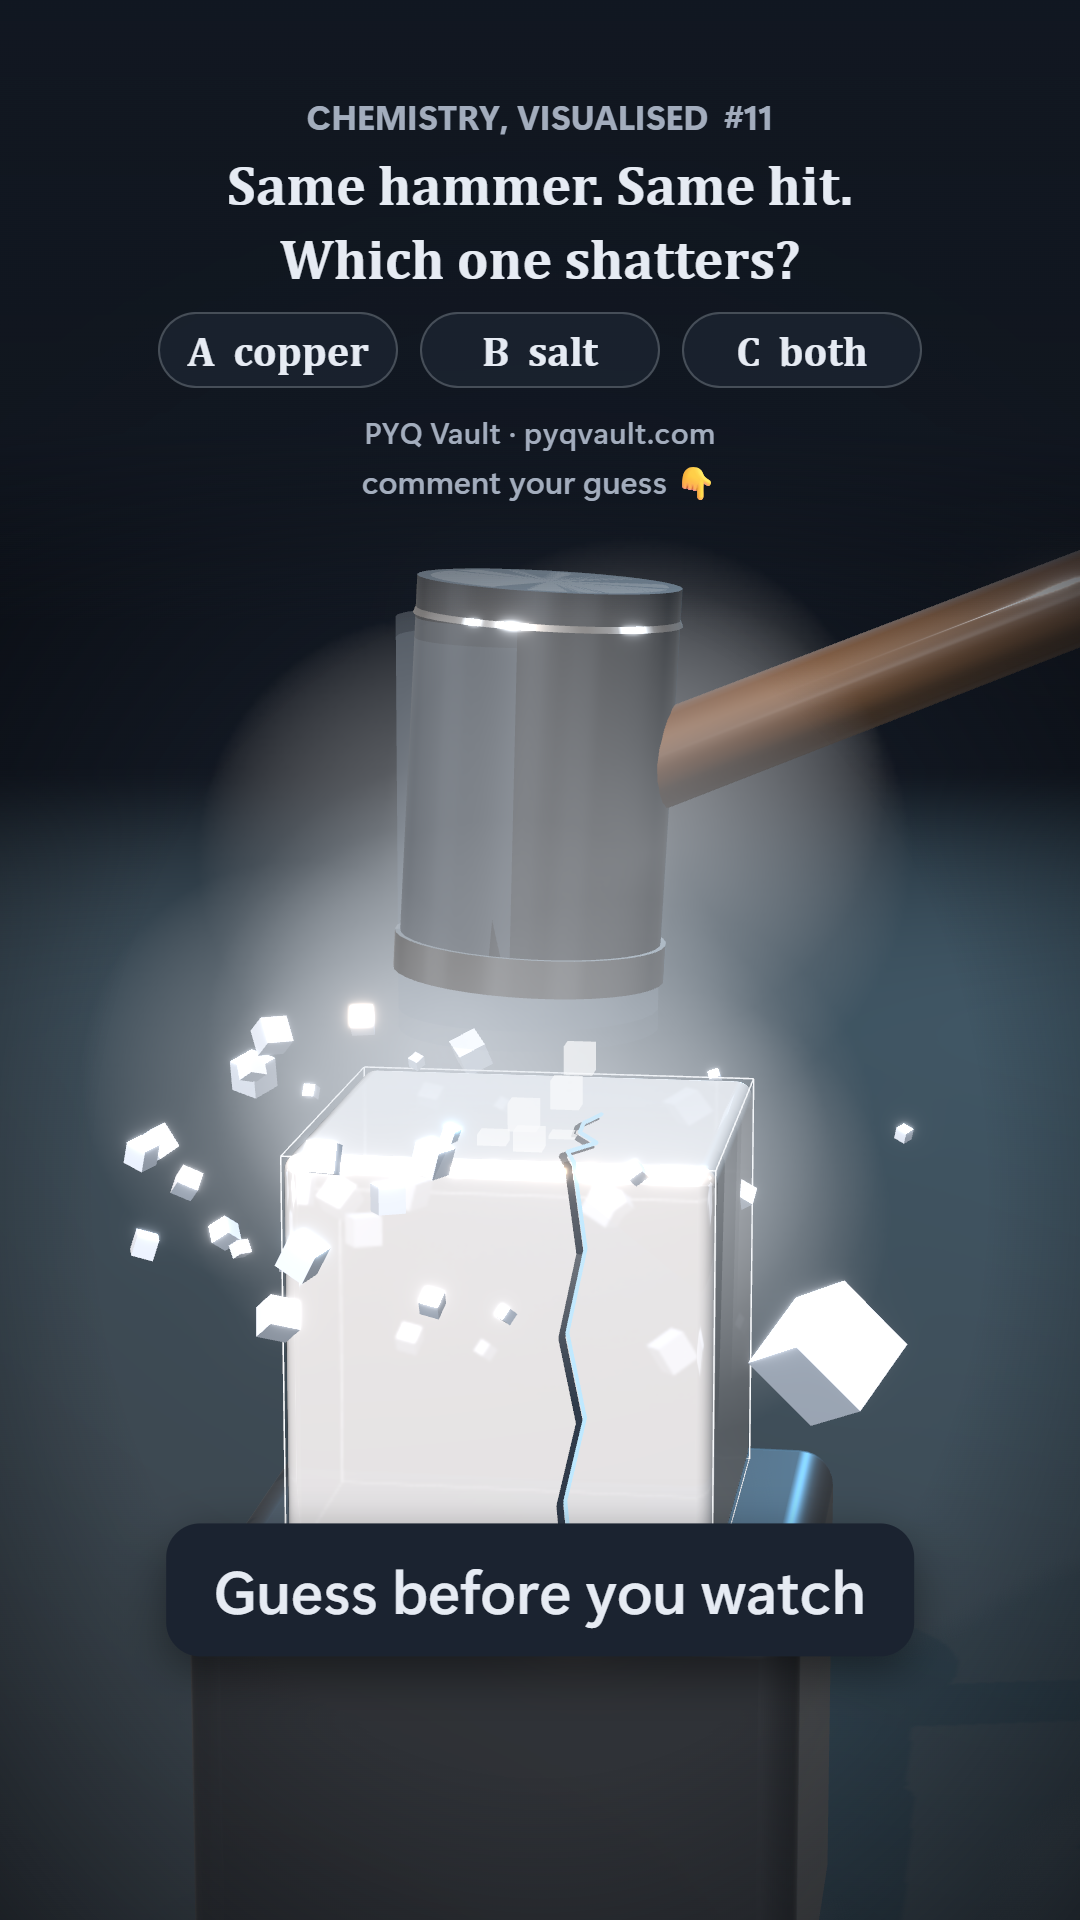
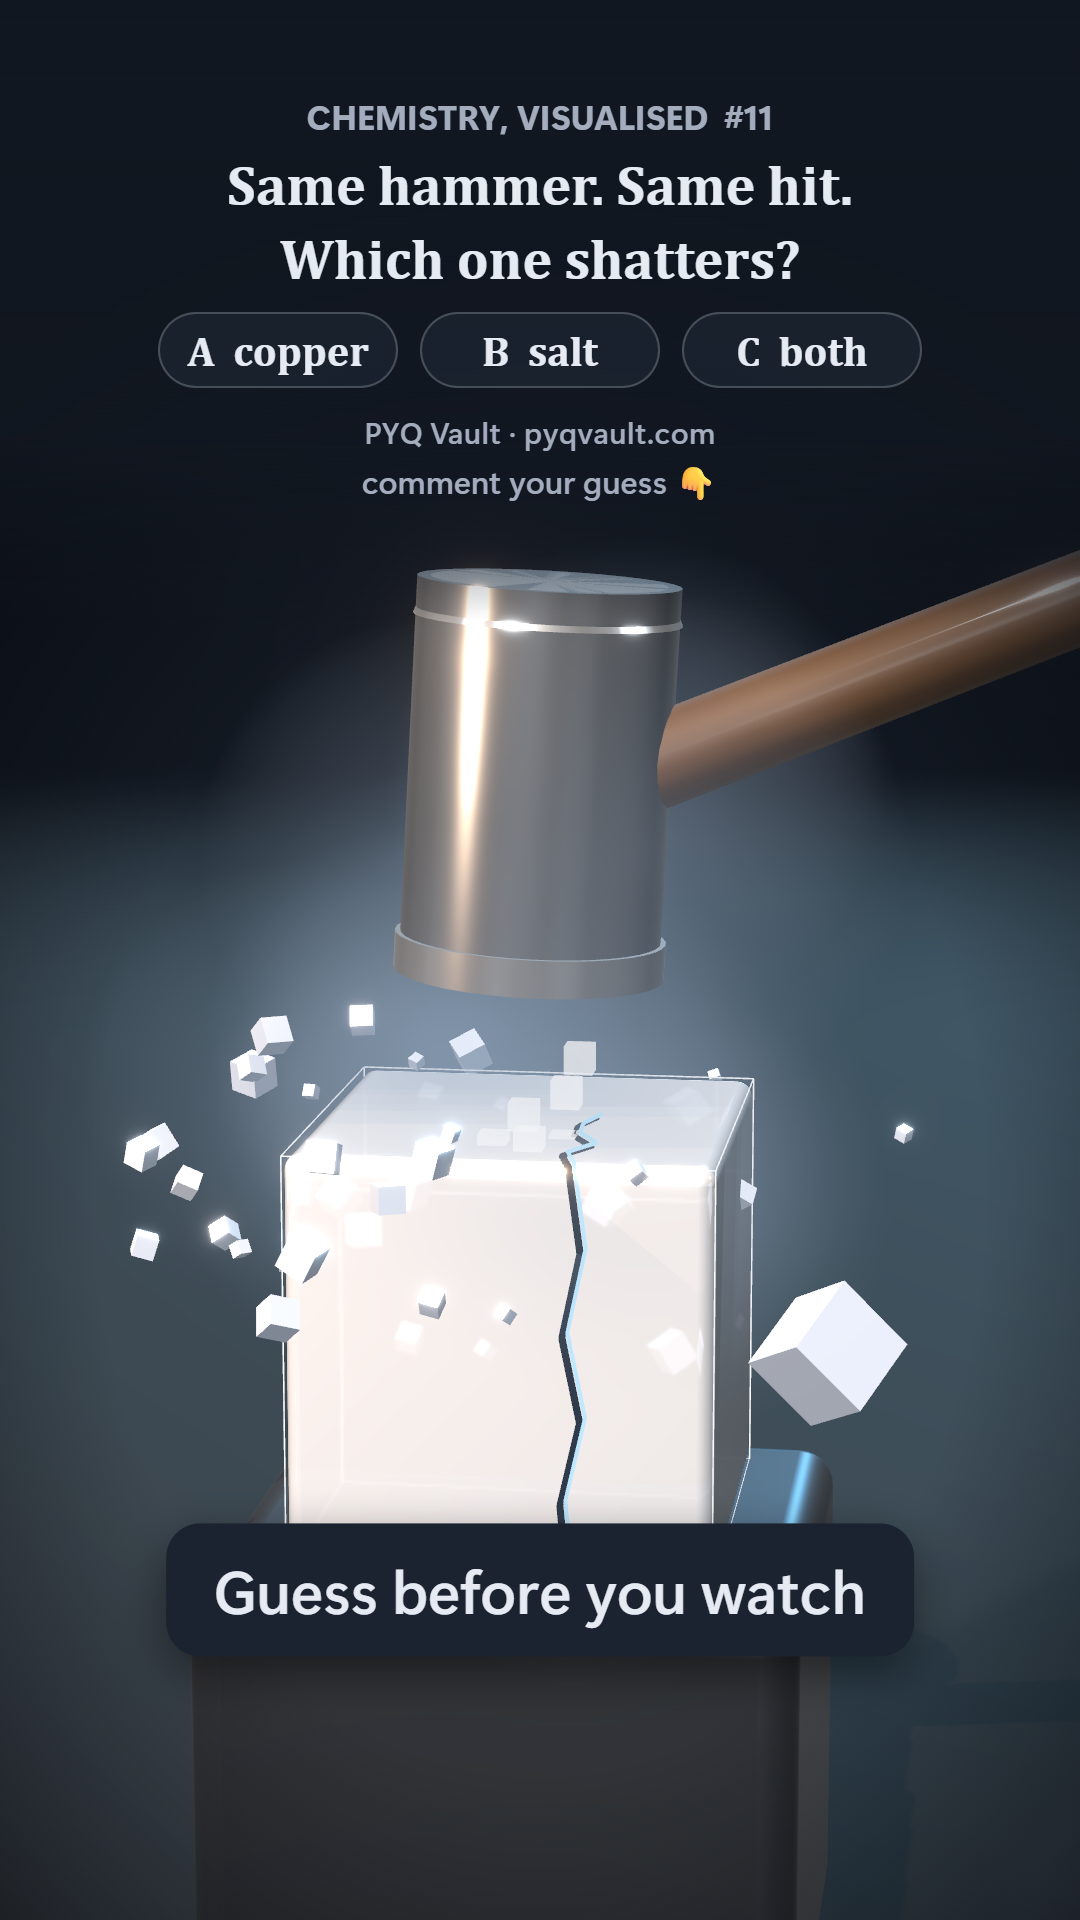
fix(reels): Chemistry #11's four defects every critic named; replaced in GoPost
Copper reads as copper, the shatter keeps its edges, no motion trail, readable closing labels.

Changed region(s): [[0.1528, 0.2812, 0.7944, 0.7812], [0.6111, 0.3125, 0.7333, 0.375], [0.5194, 0.6562, 0.55, 0.6875]]

diff --git a/remotion/src/PvChem011.tsx b/remotion/src/PvChem011.tsx
@@ -39,7 +39,7 @@ function Rig({ t }: { t: number }) {
 // thing in frame (cool white, bright edges), polished salmon copper, a dark wooden handle that doesn't pull the eye.
 const steel = <meshPhysicalMaterial color={C.steel} metalness={0.75} roughness={0.28} clearcoat={0.4} />;
 const gunmetal = <meshPhysicalMaterial color="#474e58" metalness={0.8} roughness={0.38} clearcoat={0.3} />;
-const copper = <meshPhysicalMaterial color={C.copperEdge} metalness={0.9} roughness={0.22} clearcoat={0.6} envMapIntensity={2.6} emissive={C.copper} emissiveIntensity={0.12} />;   // bright enough to read as copper on the dark set
+const copper = <meshPhysicalMaterial color={C.copperEdge} metalness={0.7} roughness={0.24} clearcoat={0.7} envMapIntensity={3} emissive="#b5602f" emissiveIntensity={0.28} />;   // salmon copper, not a brown plank (all three critics)
 const salt = <meshPhysicalMaterial color="#e4eaf2" roughness={0.1} clearcoat={1} transmission={0.25} thickness={0.4} ior={1.54} />;
 /** A colour pushed above 1 so Bloom makes it glow (toneMapped off). */
 const hot = (hex: string, k: number) => new THREE.Color(hex).multiplyScalar(k);
@@ -57,6 +57,7 @@ function DarkSet({ t }: { t: number }) {
       <fog attach="fog" args={[C.board, 9, 15]} />
       <RealLight env={0.35} key={0.5} at={[-3, 7, 6]} span={6} />
       <primitive object={spot} /><primitive object={target} />
+      <pointLight position={[BAR.x + 0.3, 1.4, 1.2]} intensity={7} distance={3.5} color="#ffd0a8" />
       <directionalLight position={[1, 4, -6]} intensity={2.8} color="#7fd4ff" />
       <hemisphereLight args={['#5b6a88', '#05070b', 0.25]} />
       <mesh rotation={[-Math.PI / 2, 0, 0]} position={[0, 0, 0]} receiveShadow><planeGeometry args={[40, 40]} /><meshStandardMaterial color={C.floor} roughness={0.85} /></mesh>
@@ -79,12 +80,12 @@ function Segment({ a, b, r, colour, opacity = 1 }: { a: V3; b: V3; r: number; co
 }
 
 /** A cube with dark edges so the clear-white salt reads on the white studio (F24: an edge of its own colour). */
-function SaltCube({ pos, rot, size }: { pos: V3; rot: V3; size: number }) {
+function SaltCube({ pos, rot, size, edge = C.saltEdge }: { pos: V3; rot: V3; size: number; edge?: string }) {
   const edges = useMemo(() => new THREE.EdgesGeometry(new THREE.BoxGeometry(size, size, size)), [size]);
   return (
     <group position={pos} rotation={rot}>
       <mesh castShadow><RoundBox size={[size, size, size]} radius={size * 0.04} />{salt}</mesh>
-      <lineSegments geometry={edges}><lineBasicMaterial color={C.saltEdge} /></lineSegments>
+      <lineSegments geometry={edges}><lineBasicMaterial color={edge} /></lineSegments>
     </group>
   );
 }
@@ -92,14 +93,11 @@ function SaltCube({ pos, rot, size }: { pos: V3; rot: V3; size: number }) {
 /** A hammer at its striking pose: a steel head (face down), a wooden handle out to the side and up. */
 function Hammer({ k, s }: { k: 'copper' | 'salt'; s: number }) {
   const h = hammerAt(k, s), side = k === 'copper' ? -1 : 1, head = { r: 0.14, h: 0.42 };
-  const trail = [1, 2, 3].map(n => hammerAt(k, s - 0.02 * n)).filter(g => Math.abs(g.face - h.face) > 0.02);
   // the handle leaves the head's side at mid-height, out and 25° up (a cylinder's axis is +y: turned by θ it points
   // (−sin θ, cos θ), so θ = −side·(90° − 25°))
   const up = 0.44, len = 1.3, dir = [side * Math.cos(up), Math.sin(up)], from = [side * head.r * 0.8, head.h * 0.55];
   return (
     <>
-    {trail.map((g, n) => <mesh key={n} position={[g.x, g.face + head.h / 2, 0]}><cylinderGeometry args={[head.r, head.r, head.h, 32]} />
-      <meshBasicMaterial color="#9aa6b4" transparent opacity={0.16 - 0.04 * n} depthWrite={false} /></mesh>)}
     <group position={[h.x, h.face, 0]} rotation={[0, 0, h.tilt]}>
       <mesh position={[0, head.h / 2, 0]} castShadow><cylinderGeometry args={[head.r, head.r, head.h, 40]} />{steel}</mesh>
       <mesh position={[0, 0.02, 0]}><cylinderGeometry args={[head.r * 1.04, head.r * 1.04, 0.04, 40]} />
@@ -142,7 +140,7 @@ const puff = (() => {
 })();
 
 function Bench({ s, t }: { s: number; t: number }) {
-  const pieces = piecesAt(s), white = <meshStandardMaterial color="#d8e7fb" roughness={0.2} />;   // cool white shards, no glow (the panel)
+  const pieces = piecesAt(s), white = <meshStandardMaterial color="#c6d5ea" roughness={0.35} />;   // cool white shards, no glow (the panel)
   return (
     <>
       <DarkSet t={t} />
@@ -157,7 +155,7 @@ function Bench({ s, t }: { s: number; t: number }) {
       <Bar s={s} />
       {s < T_BURST
         ? <SaltCube pos={[SALT.x + shiverAt(s)[0], SALT.base + SALT.side / 2, shiverAt(s)[1]]} rot={[0, 0, 0]} size={SALT.side} />
-        : pieces.map((p, i) => <SaltCube key={i} pos={p.pos} rot={p.rot} size={PIECE * 0.985} />)}
+        : pieces.map((p, i) => <SaltCube key={i} pos={p.pos} rot={p.rot} size={PIECE * 0.985} edge="#5d6b7d" />)}   // dark edges: each piece reads
       <group position={[shiverAt(s)[0], 0, shiverAt(s)[1]]}>
         {cracksAt(s).map((c, i) => c.slice(1).map((p, j) => <Segment key={`${i}-${j}`} a={[c[j][0], c[j][1], c[j][2] + 0.006]} b={[p[0], p[1], p[2] + 0.006]} r={0.004} colour="#2f3b4a" />))}
         {cracksAt(s).map((c, i) => c.slice(1).map((p, j) => <Segment key={`h${i}-${j}`} a={[c[j][0] + 0.006, c[j][1] + 0.006, c[j][2] + 0.008]} b={[p[0] + 0.006, p[1] + 0.006, p[2] + 0.008]} r={0.0022} colour="#bfe9ff" />))}
@@ -171,7 +169,7 @@ function Bench({ s, t }: { s: number; t: number }) {
       {chipsAt(s).map((p, i) => <mesh key={'c' + i} position={p.pos} rotation={p.rot} castShadow><boxGeometry args={[p.size, p.size, p.size]} />{white}</mesh>)}
       {shardsAt(s).map((p, i) => <mesh key={'s' + i} position={p.pos} rotation={p.rot} castShadow><boxGeometry args={[p.size, p.size, p.size]} />{white}</mesh>)}
       {dustCloudAt(s).map((d, i) => <sprite key={'d' + i} position={d.pos} scale={[d.r * 2.6, d.r * 2.6, 1]}>
-        <spriteMaterial map={puff} color="#e6ebf2" transparent opacity={d.alpha * 0.55} depthWrite={false} /></sprite>)}
+        <spriteMaterial map={puff} color="#9fb3cc" transparent opacity={d.alpha * 0.4} depthWrite={false} /></sprite>)}
       <Hammer k="copper" s={s} />
       <Hammer k="salt" s={s} />
     </>
@@ -248,7 +246,7 @@ function Scene({ t }: { t: number }) {
     <>
       <Rig t={t} />
       {sceneAt(t) === 'macro' ? <Bench s={storyTime(t)} t={t} /> : <Atoms t={t} />}
-      <EffectComposer multisampling={4}><Bloom mipmapBlur luminanceThreshold={1.0} luminanceSmoothing={0.2} intensity={0.8} radius={0.55} /></EffectComposer>
+      <EffectComposer multisampling={4}><Bloom mipmapBlur luminanceThreshold={1.15} luminanceSmoothing={0.2} intensity={0.8} radius={0.55} /></EffectComposer>
       <BloomWarmUp />
     </>
   );
@@ -279,8 +277,8 @@ function Words({ t }: { t: number }) {
           case 'tag': return line(x, { font: `600 30px ${SOFT_UI}`, letterSpacing: 0.5 }, P.muted);
           case 'line': return line(x, { font: `600 44px ${SOFT_UI}` });
           case 'caption': return pill(x, 'rgba(0,0,0,0)', 'rgba(10,14,20,0.72)', P.ink, { font: `600 ${x.size}px ${SOFT_UI}` });
-          case 'setTag': return pill(x, tint(P.ink, 0.35), 'rgba(27,35,48,0.9)', P.ink, { font: `600 ${x.size}px ${SOFT_UI}` });
-          case 'answer': return pill(x, tint(P.amber, 0.85), 'rgba(40,30,18,0.92)', P.amber, { ...hand(x.size), boxShadow: `0 0 26px ${tint(P.amber, 0.35)}` });
+          case 'setTag': return pill(x, tint(P.ink, 0.55), 'rgba(12,16,22,0.95)', '#ffffff', { font: `600 ${x.size}px ${SOFT_UI}` });
+          case 'answer': return pill(x, P.amber, 'rgba(12,16,22,0.95)', '#ffd79a', { ...hand(x.size), boxShadow: `0 0 26px ${tint(P.amber, 0.35)}` });
         }
       })}
     </>

diff --git a/remotion/src/lib/pc011.ts b/remotion/src/lib/pc011.ts
@@ -499,7 +499,7 @@ export const CAPTIONS: Caption[] = [
   { t0: CUT2 + 0.2, t1: T_LIKE, text: 'Salt: + and − take turns' },
   { t0: T_LIKE, t1: T_SPLIT, text: 'Slide one step: + meets +' },
   { t0: T_SPLIT, t1: CUT3, text: 'Like charges push. It splits.' },
-  { t0: CUT3 + 0.2, t1: REW0, text: 'Metals bend. Salts shatter.' },
+  { t0: CUT3 + 0.05, t1: REW0, text: 'Metals bend. Salts shatter.' },   // on the cut (pass 3: it came late)
 ];
 export type Kind = 'label' | 'header' | 'chip' | 'tag' | 'nudge' | 'line' | 'caption' | 'setTag' | 'answer';
 export type Text = { name: string; kind: Kind; text: string; size: number; x: number; y: number; alpha: number; box: Box };
@@ -511,7 +511,7 @@ export const bigAt = (t: number) => (t < REW0 ? 1 - prog(t, T_SHRINK, 0.15) : pr
 // the tag drops back to its frame-0 place before the big question returns over it
 const upAt = (t: number) => (t < REW0 ? prog(t, T_SHRINK + 0.15, 0.3) : 1 - prog(t, REW0 + 0.3, 0.5));
 /** The set-ups' tags: only on the wide shots (a close-up has one set-up), out before the rewind. */
-const tagsAt = (t: number) => Math.max(...WIDE.map(([a, b]) => clamp01((t - a) / 0.25) * (b === REW0 ? 1 - prog(t, REW0, 0.4) : clamp01((b - t) / 0.2))));
+const tagsAt = (t: number) => Math.max(...WIDE.map(([a, b]) => clamp01((t - a) / 0.12) * (b === REW0 ? 1 - prog(t, REW0, 0.4) : clamp01((b - t) / 0.2))));
 
 /** Every text on screen at t, with its box (tests: inside Instagram's safe area, no two colliding). */
 export function textsAt(t: number): Text[] {
@@ -540,7 +540,7 @@ export function textsAt(t: number): Text[] {
     const cam = cameraAt(t);
     for (const [k, x] of [['copper', BAR.x], ['salt', SALT.x]] as const) {
       const foot = project([x, 0, SALT_BLOCK.hd + 0.05], cam, FULL), answer = k === 'salt' && t >= ANSWER_AT;
-      const size = answer ? 52 : 42, text = answer ? OPTIONS[ANSWER] : k, half = textBox(text, size, 0, 0, 20).w / 2;
+      const size = answer ? 56 : 46, text = answer ? OPTIONS[ANSWER] : k, half = textBox(text, size, 0, 0, 20).w / 2;
       // kept clear of Instagram's buttons (the bigger answer pill reached into them)
       add({ name: `tag ${k}`, kind: answer ? 'answer' : 'setTag', text, size, x: Math.min(foot.x, SAFE.right - 10 - half), y: foot.y + 56, pad: 20, alpha: vis, pinned: true });
     }

diff --git a/reels/pv-chem-011-hammer.md b/reels/pv-chem-011-hammer.md
@@ -9,7 +9,7 @@ bursts at 3.2 s (aftershock 0.64, seconds 1–3 moving 15% of the pixels a frame
 break?" (a dive into the bend, then the atoms) · **Loop:** yes, a rewind back to frame 0 (F27: Chemistry #10 and Physics #15
 both end on the end card) · **Framework v1.31** · **Look:** dark set under a spotlight (not the studio: the founder found the
 studio version "not dramatic enough, pretty bland"; F35 full frame kept) · **Music:** `cinematic`, shaped by a level curve
-(a riser into the burst, a hole for it, a lift for the second question) · **Voice:** none (silent) · **Length:** 15.5 s ·
+(a riser into the burst, a hole for it, a lift for the second question) · **Voice:** none (silent) · **Length:** 14.45 s ·
 **Review panel (F38):** first reel through it (see below) · **Made in Remotion** (`remotion/src/PvChem011.tsx`; timeline,
 beat table, chemistry, burst and shard simulation, sound `src/lib/pc011.ts`; tests `tests/pc011.test.ts`).
 
@@ -58,11 +58,12 @@ salt the brightest thing in frame. Na⁺ vs Cl⁻ and copper vs its electrons ar
 
 ## Review panel (F38)
 
-Pass 1 (the dramatic remake, before these fixes): Drama 5 · Colour 5 · Motion 6 · Sound 5. Every must-fix and what was done
-is in `reels/review-panel.md` → Log. Declined: a split-screen frame 0 with both set-ups (keeps the close-up shock; the copper
-comes 0.6 s later) · a run-up whoosh into the hit (a whoosh peaks 0.45 s after it starts, so it would begin before frame 0)
-· a lighter Na⁺ violet (the VIVID set is test-locked; the +/− marks carry the difference) · bigger lattices (they already
-fill 75–90% of the width).
+The first reel through it: three passes, Drama · Colour · Motion · Sound **5 · 5 · 6 · 5 → 5 · 5 · 6 · 5 → 6 · 6 · 6 · –**,
+then the four defects every critic named fixed (copper reading as wood, the shatter white on white, a motion trail that
+looked like a glitch, faint closing labels). That run set the panel's pass rule (F38, v1.32): no defect left, scores logged
+but not a gate, at most two passes. Every must-fix and what was done: `reels/review-panel.md` → Log. Declined, with reasons
+there: red push arrows (yellow is the colour-blind-safe choice pass 1 asked for), uneven shards (salt cleaves into cubes),
+a split-screen first blow, the copper in the cover, a shorter atom section, a run-up whoosh before frame 0.
 
 ## Files
 
